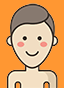
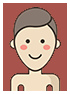
배경이미지, 캐릭터 선택 배경, 캐릭터 클릭이미지 수정 및 추가

diff --git a/main.py b/main.py
@@ -84,7 +84,7 @@ def gameOver(chracterNum):
 
 def choiceCharacter():
     global gamePad
-    writeMessage('캐릭터를 선택해주세요', 2, 0)
+    writeMessage('', 2, 0)
 
 
 def help():
@@ -151,7 +151,7 @@ def drawObject(obj, x, y):
 
 
 def initGame():
-    global gamePad, clock,play, exit, help, story, clickPlay, clickExit, clickHelp,clickStory,storyline, background, fighter, fighter2, clickFighter, clickFighter2, missile, explosion, missileSound, gameOverSound
+    global gamePad, clock,play, exit, help, story, clickPlay, clickExit, clickHelp,clickStory,storyline, background, fighter, fighter2, clickFighter, clickFighter2, missile, explosion, missileSound, gameOverSound, character_choice_bg
     pygame.init()  # Han
     gamePad = pygame.display.set_mode((padWidth, padHeight)) #Han
 
@@ -169,14 +169,14 @@ def initGame():
 
     storyline = pygame.image.load('storyline.png')
 
-
-    fighter = pygame.image.load('player.png') # 전투기 그림 - ho #뚱뚱캐릭
+    character_choice_bg = pygame.image.load('characterchoicebg.png')
+    fighter = pygame.image.load('player.png') # 뚠뚠캐릭
     fighter2 = pygame.image.load('player2.png') # 마른캐릭
     clickFighter = pygame.image.load('clickplayer.png') #클릭한 뚠뚠캐릭
     clickFighter2 = pygame.image.load('clickplayer2.png') #클릭한 마른캐릭
     missile = pygame.image.load('spoon-and-fork.png')  # Sae 미사일그림
     explosion = pygame.image.load('mouth.png') # 폭발 그림 - ho
-    background = pygame.image.load('backgound.png')  # Han
+    background = pygame.image.load('backgound2.png')  # Han
     introimage = pygame.image.load('pig.png')
     clock = pygame.time.Clock() # 시간 추척 추가 - Yu
 
@@ -208,7 +208,7 @@ def initGame():
 
 
 def runGame(gametypeNum, charterNum):
-    global gamepad, clock, background, fighter, fighter2, clickFighter, clickFighter2, missile, explosion, missileSound
+    global gamepad, clock, background, fighter, fighter2, clickFighter, clickFighter2, missile, explosion, missileSound, character_choice_bg
     pygame.mixer.music.load('music.mp3')  # Chan 음악 재생
     pygame.mixer.music.play()
 
@@ -283,9 +283,9 @@ def runGame(gametypeNum, charterNum):
 
         if gametypeNum == 0: # 최초 캐릭터 선택
 
-         drawObject(background, 0, 0)  # 배경화면 그리기 -Han
-         fighter1Button = Button1(fighter, 100, 255, 60, 60, clickFighter, 100, 255, 1)
-         fighter2Button = Button1(fighter2, 310, 230, 60, 60, clickFighter2, 310, 230, 2)
+         drawObject(character_choice_bg, 0, 0)  # 배경화면 그리기 -Han
+         fighter1Button = Button1(fighter, 100, 255, 60, 60, clickFighter, 97, 252, 1)
+         fighter2Button = Button1(fighter2, 310, 230, 60, 60, clickFighter2, 307, 227, 2)
          choiceCharacter() #캐릭터를 선택해주세요 글씨
 
 
